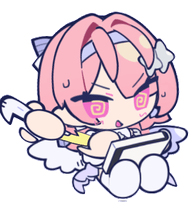
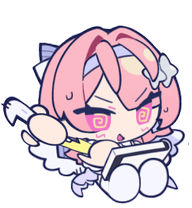
Update pet status animations

diff --git a/pet-build/tools/replace_rows_from_gifs.py b/pet-build/tools/replace_rows_from_gifs.py
@@ -143,18 +143,20 @@ def extract_even(path: Path, take: int) -> list[Image.Image]:
     return [all_frames[i] for i in sample_indices(len(all_frames), take)]
 
 
-def replace_four_rows(run_dir: Path) -> None:
+def replace_status_rows(run_dir: Path) -> None:
     refs = run_dir / "references"
     frames_root = run_dir / "frames"
 
+    # Codex status mapping requested by the user:
+    # idle    -> 待机中.gif (reference-06.gif)
+    # waiting -> 待机.gif   (reference-05.gif)
+    # running -> 修改文件.gif (reference-01.gif)
+    # review  -> 完成.gif   (reference-03.gif)
+    # failed  -> keep the independently generated 8-frame blocked animation.
     write_row(extract_even(refs / "reference-06.gif", 6), frames_root / "idle")
     write_row(extract_even(refs / "reference-05.gif", 6), frames_root / "waiting")
     write_row(extract_even(refs / "reference-03.gif", 6), frames_root / "review")
-
-    # Keep the active-task row as one continuous writing loop.  Mixing the
-    # thinking GIF with the writing GIF makes the six fixed Codex slots jump
-    # halfway through playback.
-    write_row(extract_even(refs / "reference-02.gif", 6), frames_root / "running", stable=True)
+    write_row(extract_even(refs / "reference-01.gif", 6), frames_root / "running", stable=True)
 
 
 ROW_SPECS = {
@@ -374,7 +376,7 @@ def main() -> None:
         print(f"backed up {backup}")
 
     if not args.skip_extract:
-        replace_four_rows(run_dir)
+        replace_status_rows(run_dir)
 
     rebuild_atlases(run_dir, backup if backup.exists() else old_extended)
     write_extended_manifest(

diff --git a/README.md b/README.md
@@ -2,6 +2,14 @@
 
 基于原始 GIF 图源制作的 Codex v2 自定义宠物「星羽」。角色形象保留粉发、星形发饰、小翅膀与设备道具。
 
+## 状态映射
+
+- 普通状态（idle）：`待机中.gif`
+- 需要输入（waiting）：`待机.gif`
+- 运行中（running）：`修改文件.gif`
+- 就绪（review）：`完成.gif`
+- 阻塞（failed）：独立制作的 8 帧失败/阻塞动画
+
 ## 内容
 
 - `codex-pet/`：可直接安装的 Codex 宠物包，含 `pet.json` 与 `spritesheet.webp`。
